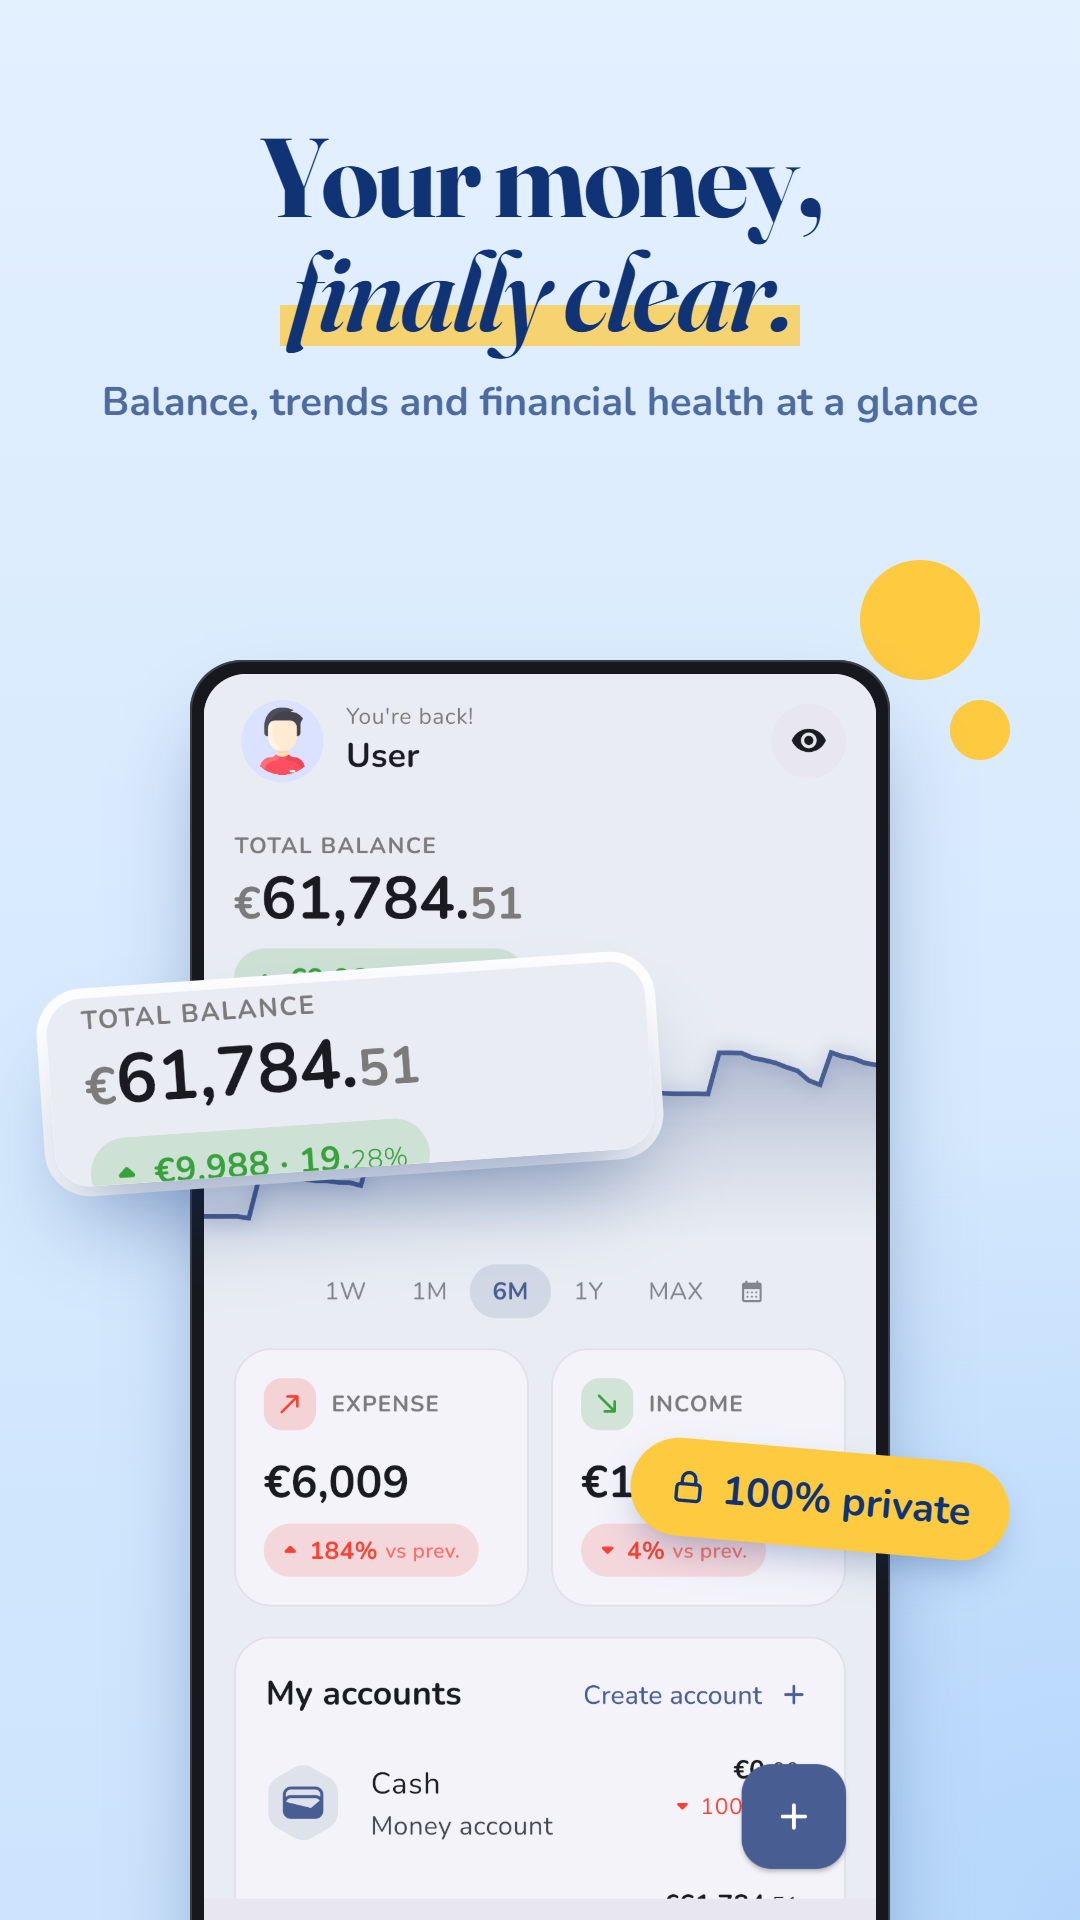
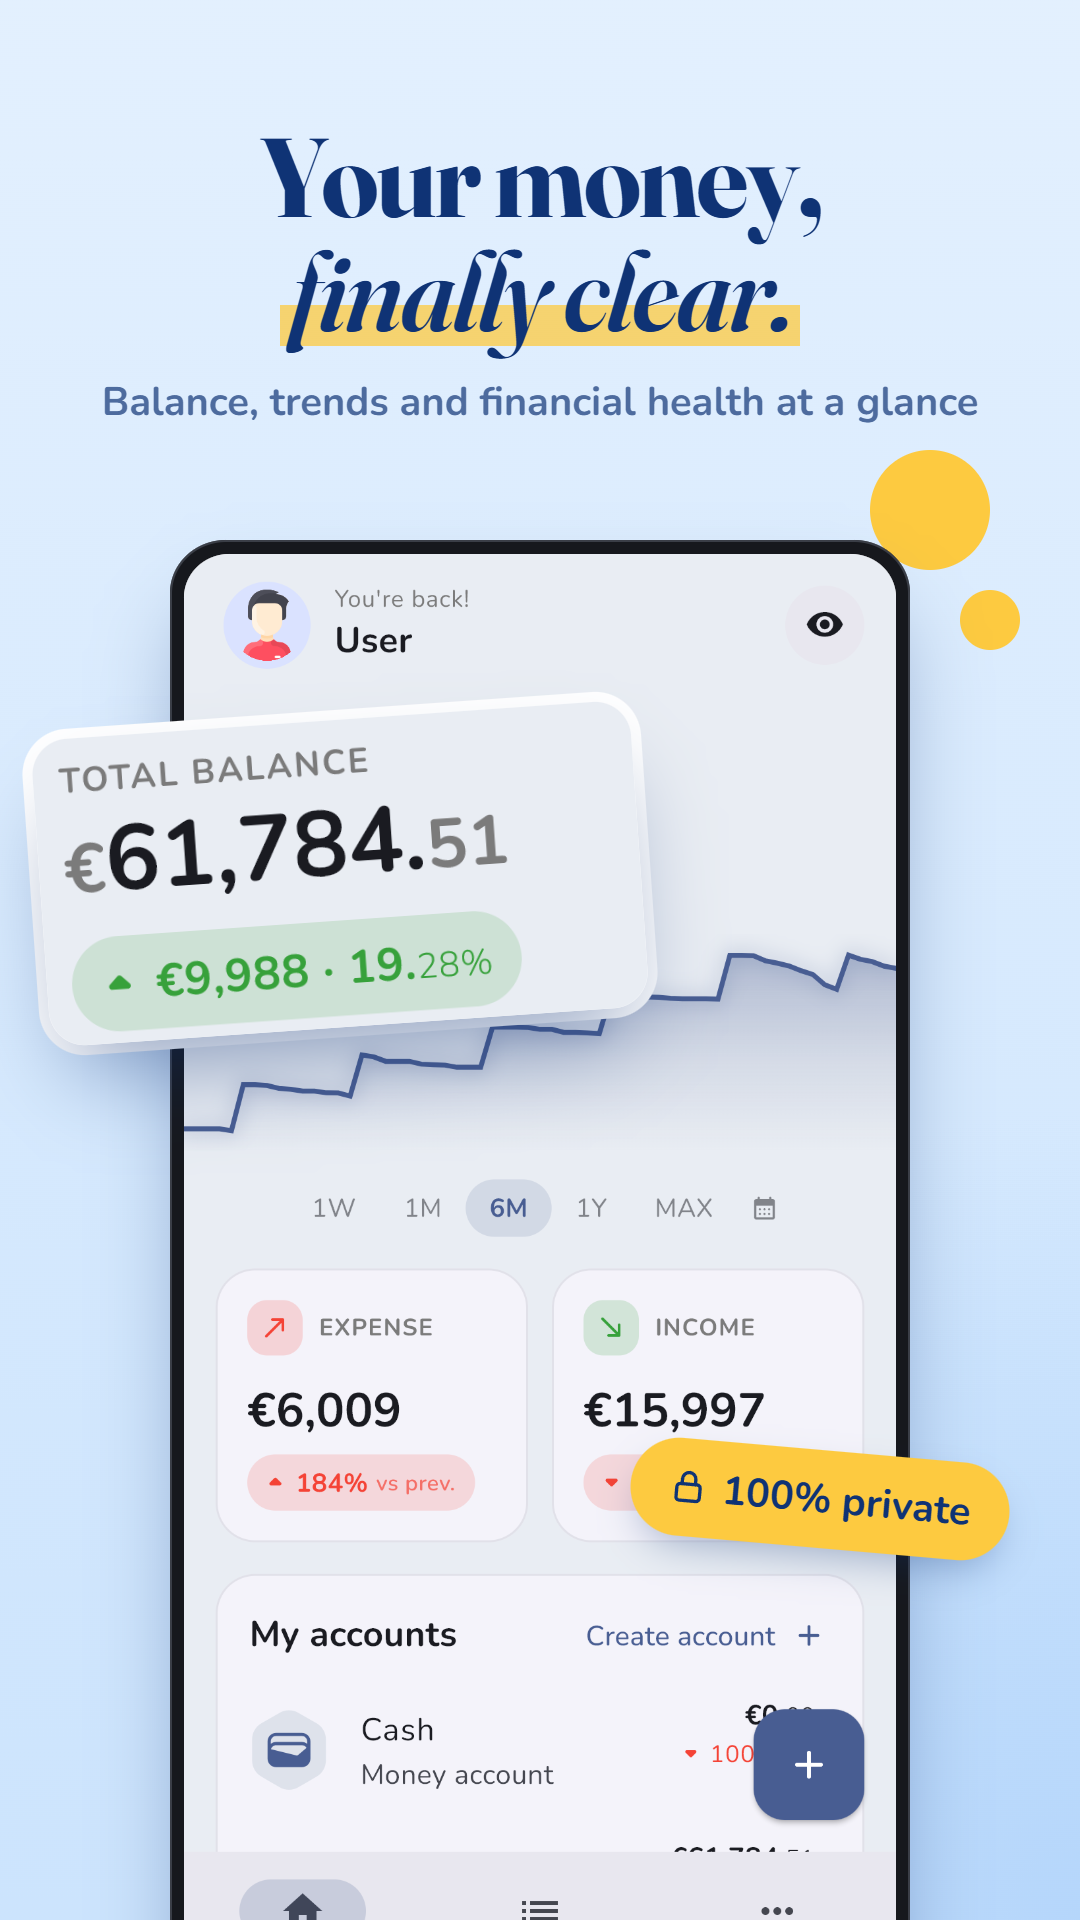
feat: Regenerate screens

diff --git a/app-marketplaces/store-images/slides/01-dashboard.html b/app-marketplaces/store-images/slides/01-dashboard.html
@@ -10,8 +10,7 @@
   <store-phone shot="01_dashboard" class="center" style="top: 540px; width: 740px"></store-phone>
 
   <!-- Total balance, with its trend pill -->
-  <store-zoom shot="01_dashboard" crop="2 10.5 58 14.5"
-    style="left: 40px; top: 820px; width: 600px; rotate: -4deg"></store-zoom>
+  <store-zoom shot="01_dashboard" crop="2 10.5 58 14.5" style="left: 40px; top: 720px; width: 600px; rotate: -4deg"></store-zoom>
 
   <div class="sticker yellow" style="right: 70px; top: 1450px; rotate: 5deg">
     <store-icon name="lock"></store-icon>
